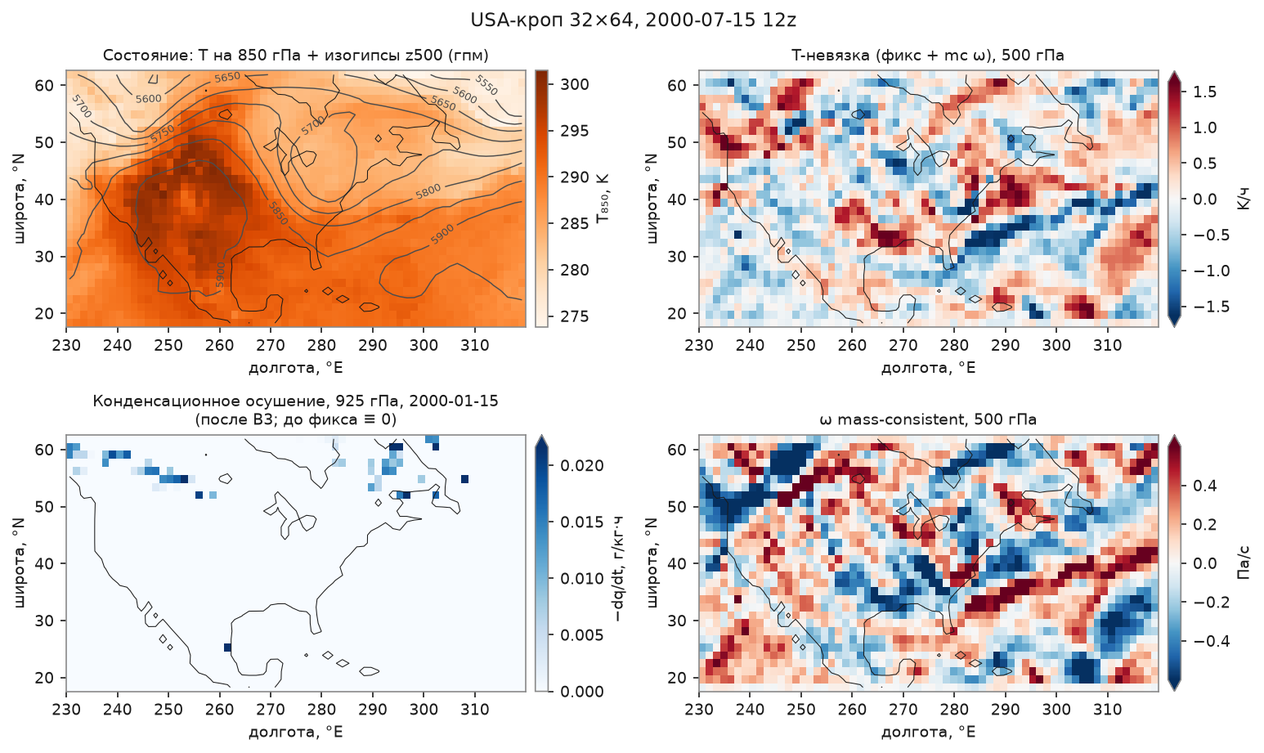
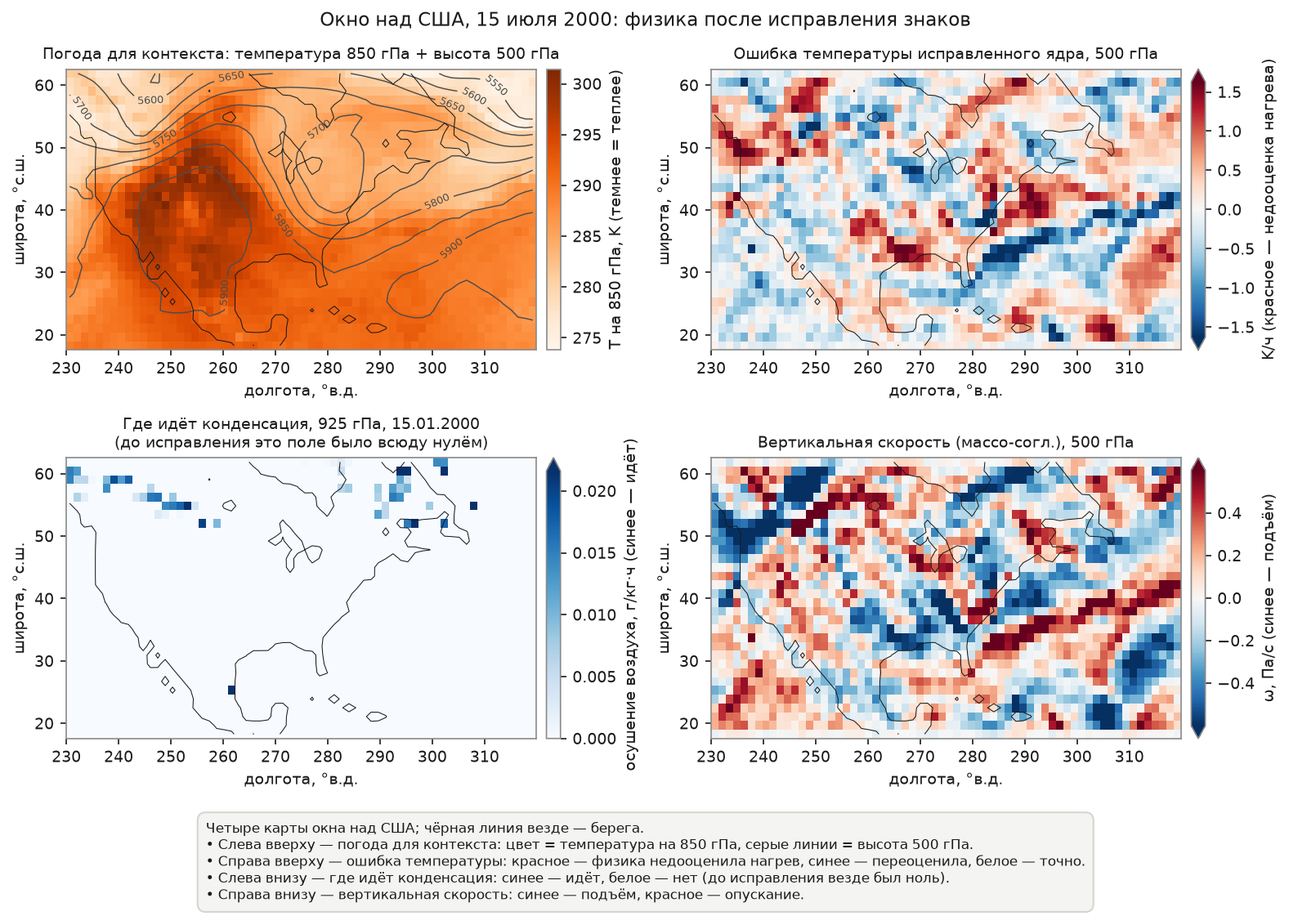
docs(experiments): self-explanatory figures — on-image caption, plain titles, color legends
Each of the five plots now carries a boxed caption (what it shows / how to read
/ what the colors mean) rendered onto the image, a plain-Russian title, and
color meaning spelled out in the colorbar labels, so a figure reads on its own
without the report text. add_caption() gains a y offset to clear the legend on
fig1.

diff --git a/docs/experiments/13_sign_convention_fix/make_figures.py b/docs/experiments/13_sign_convention_fix/make_figures.py
@@ -1,13 +1,16 @@
-"""Рендер фигур exp 13 из results-JSON и NPZ карт (см. PHYSICS_STATS_2000.md).
+"""Рендер фигур эксперимента 13 из results-JSON и NPZ карт.
 
-Вход: physics_stats_2000_results.json (рядом) и NPZ с картами (аргумент 1 или
-$MAPS_NPZ). Выход: fig1..fig5 PNG в каталоге эксперимента.
+Вход: physics_stats_2000_results.json (рядом) и NPZ с полями карт (аргумент 1
+или переменная окружения MAPS_NPZ). Выход: пять PNG в каталоге эксперимента.
+Каждая фигура самодостаточна: заголовок на простом русском плюс врезка-пояснение
+внизу («Что показано / Как читать / Цвета»), чтобы график читался без текста
+отчёта. Смысл величин и выводы разобраны в PHYSICS_STATS_2000.md.
 
-Правила оформления — skill dataviz: diverging (RdBu, нейтральный центр) только
-для знаковых полей (ω, невязка), sequential одно-хьюные для величин, стадии
-фикса — порядковая одно-хьюная шкала, идентичности линий — Okabe-Ito
-(валидировано: CVD ΔE 17.9, у розового contrast-WARN → прямые подписи),
-log-шкала — точками, а не барами; суша — контур lsm на каждой карте.
+Оформление следует навыку dataviz: расходящаяся палитра (RdBu, нейтральный
+центр) — только для знаковых полей (вертикальная скорость, невязка); одноцветные
+шкалы — для величин одного знака; стадии исправления — порядковая одноцветная
+шкала; цвета линий — Okabe-Ito (проверено валидатором); логарифмическая ось —
+точками, а не столбцами; на каждой карте — контур береговой линии.
 """
 
 import json
@@ -27,10 +30,16 @@ RESULTS = json.loads((HERE / "physics_stats_2000_results.json").read_text())
 NPZ_PATH = sys.argv[1] if len(sys.argv) > 1 else os.environ["MAPS_NPZ"]
 MAPS = np.load(NPZ_PATH)
 
-STAGE_COLORS = ["#c6dbef", "#6baed6", "#2171b5", "#08306b"]  # порядковая одно-хьюная
-STAGE_LABELS = ["до фикса", "фикс, plain ω", "только адвекция", "фикс + mc ω"]
+STAGE_COLORS = ["#c6dbef", "#6baed6", "#2171b5", "#08306b"]  # порядковая одноцветная
+STAGE_LABELS = [
+    "старое ядро (знаки перевёрнуты)",
+    "исправлены знаки",
+    "без адиабатического члена",
+    "исправлено + массо-согл. ω",
+]
 VAR_COLORS = {"u": "#0072B2", "v": "#D55E00", "t": "#009E73", "z": "#CC79A7"}
 INK, MUTED = "#1a1a1a", "#8a8a8a"
+CAPTION_BG = "#f4f4f2"
 
 plt.rcParams.update(
     {
@@ -49,13 +58,34 @@ plt.rcParams.update(
 
 
 def despine(ax) -> None:
-    """Убирает верхнюю/правую рамки (recessive axes)."""
+    """Убирает верхнюю и правую рамки — оси не должны спорить с данными."""
     ax.spines["top"].set_visible(False)
     ax.spines["right"].set_visible(False)
 
 
+def add_caption(fig, text: str, y: float = -0.02) -> None:
+    """Печатает врезку-пояснение под фигурой (что показано, как читать, цвета).
+
+    Текст кладётся ниже осей и попадает в сохранённый PNG за счёт
+    ``bbox_inches='tight'``. Выравнивание по левому краю для читаемости.
+    Параметр ``y`` (в координатах фигуры) опускает врезку ниже, когда под
+    осями уже есть легенда.
+    """
+    fig.text(
+        0.5,
+        y,
+        text,
+        ha="center",
+        va="top",
+        ma="left",
+        fontsize=8,
+        color=INK,
+        bbox={"boxstyle": "round,pad=0.6", "facecolor": CAPTION_BG, "edgecolor": "#d5d5d2"},
+    )
+
+
 def land_contour(ax, dom: str) -> None:
-    """Контур суши (lsm=0.5) — «изображение земли» на каждой карте."""
+    """Контур береговой линии (маска суша/море = 0.5) на карте."""
     ax.contour(
         MAPS[f"{dom}_lon"],
         MAPS[f"{dom}_lat"],
@@ -67,28 +97,28 @@ def land_contour(ax, dom: str) -> None:
 
 
 def map_panel(ax, dom: str, field: np.ndarray, cmap: str, norm, title: str):
-    """Одна карта: pcolormesh + суша + заголовок; возвращает mesh для colorbar."""
+    """Одна карта: заливка поля, береговая линия, заголовок. Возвращает mesh."""
     mesh = ax.pcolormesh(
         MAPS[f"{dom}_lon"], MAPS[f"{dom}_lat"], field, cmap=cmap, norm=norm, shading="auto"
     )
     land_contour(ax, dom)
     ax.set_title(title, fontsize=9)
-    ax.set_xlabel("долгота, °E")
+    ax.set_xlabel("долгота, °в.д.")
     ax.set_ylabel("широта, °")
     ax.grid(False)
     return mesh
 
 
 def fig1_residual_stages() -> None:
-    """Точечный график стадий фикса (log-x): T и z, оба домена."""
+    """Точечный график стадий исправления (лог-ось): T и z, обе области."""
     rows = [
-        ("T · USA", "usa", "t"),
-        ("T · глобус", "globe", "t"),
-        ("z · USA", "usa", "z"),
-        ("z · глобус", "globe", "z"),
+        ("T · США", "usa", "t"),
+        ("T · весь мир", "globe", "t"),
+        ("z · США", "usa", "z"),
+        ("z · весь мир", "globe", "z"),
     ]
-    fig, ax = plt.subplots(figsize=(7.2, 3.2))
-    for yi, (label, dom, var) in enumerate(rows):
+    fig, ax = plt.subplots(figsize=(7.6, 3.4))
+    for yi, (_label, dom, var) in enumerate(rows):
         d = RESULTS[dom]
         stages = [
             d["residual_rel"]["prefix_emulated"][var],
@@ -112,8 +142,10 @@ def fig1_residual_stages() -> None:
     ax.set_xscale("log")
     ax.set_yticks(range(len(rows)), [r[0] for r in rows])
     ax.invert_yaxis()
-    ax.set_xlabel("относительная невязка Σ|obs−model| / Σ|obs| (log)")
-    ax.set_title("PDE-невязка T и z по стадиям фикса (ERA5-2000, 96 пар)", fontsize=10)
+    ax.set_xlabel("во сколько раз ошибка физики больше реального изменения за час (лог-ось)")
+    ax.set_title(
+        "Ошибка температуры и геопотенциала падает после исправления знаков", fontsize=10
+    )
     handles = [
         plt.Line2D([], [], marker="o", ls="", color=c, label=s)
         for c, s in zip(STAGE_COLORS, STAGE_LABELS)
@@ -121,56 +153,70 @@ def fig1_residual_stages() -> None:
     ax.legend(
         handles=handles,
         frameon=False,
-        fontsize=8,
-        ncols=4,
+        fontsize=7.5,
+        ncols=2,
         loc="upper center",
-        bbox_to_anchor=(0.5, -0.22),
+        bbox_to_anchor=(0.5, -0.3),
     )
     despine(ax)
-    fig.tight_layout()
+    add_caption(
+        fig,
+        "Что показано: относительная ошибка физики для температуры (T) и геопотенциала (z) —\n"
+        "во сколько раз она больше реального часового изменения поля. Одно деление оси = ×10.\n"
+        "Как читать: чем левее точка, тем точнее. Цвета точек — стадии, от светлой к тёмной:\n"
+        "старое ядро → исправлены знаки → без адиабаты → исправлено с массо-согласованной ω.\n"
+        "Вывод: тёмные точки левее светлых в 10–30 раз.",
+        y=-0.52,
+    )
     fig.savefig(HERE / "fig1_residual_stages.png", bbox_inches="tight")
     plt.close(fig)
 
 
 def fig2_omega_maps() -> None:
-    """Глобус, 500 гПа, 2000-07-15: ω plain / mass-consistent / implied."""
+    """Весь мир, 500 гПа, 15.07.2000: три способа получить вертикальную скорость."""
     norm = TwoSlopeNorm(vcenter=0.0, vmin=-0.6, vmax=0.6)
-    fig, axes = plt.subplots(1, 3, figsize=(12.6, 3.4), sharey=True)
+    fig, axes = plt.subplots(1, 3, figsize=(12.6, 3.6), sharey=True)
     panels = [
-        ("omega_plain500", "кинематическая ω (plain)"),
-        ("omega_mc500", "кинематическая ω (mass-consistent)"),
-        ("omega_implied500", "implied ω из T-бюджета"),
+        ("omega_plain500", "обычная (из расхождения ветра)"),
+        ("omega_mc500", "массо-согласованная"),
+        ("omega_implied500", "требуемая (из баланса тепла)"),
     ]
     mesh = None
     for ax, (key, title) in zip(axes, panels):
         field = MAPS[f"globe_jul15_{key}"]
         mesh = map_panel(
-            ax, "globe", field, "RdBu_r", norm, f"{title}\n⟨|ω|⟩ = {np.abs(field).mean():.2f} Па/с"
+            ax, "globe", field, "RdBu_r", norm, f"{title}\nсредний модуль = {np.abs(field).mean():.2f} Па/с"
         )
         ax.label_outer()
     cbar = fig.colorbar(
-        mesh, ax=axes, orientation="horizontal", fraction=0.055, pad=0.16, extend="both"
+        mesh, ax=axes, orientation="horizontal", fraction=0.05, pad=0.18, extend="both"
     )
-    cbar.set_label("ω на 500 гПа, Па/с (красное — опускание); 2000-07-15 12z")
+    cbar.set_label("вертикальная скорость ω на 500 гПа, Па/с")
     fig.suptitle(
-        "Кинематическая ω шумит на порядок сильнее требуемой; mc давит амплитуду, "
-        "но поточечной корреляции нет (r ≈ 0.02)",
+        "Вертикальную скорость нельзя брать напрямую из ветра: она шумит в разы сильнее нужной",
         fontsize=10,
-        y=1.04,
+        y=1.02,
+    )
+    add_caption(
+        fig,
+        "Что показано: вертикальная скорость воздуха ω на высоте 500 гПа, весь мир, 15 июля 2000.\n"
+        "Три способа её получить: из расхождения ветра (обычная), с вычтенным средним по столбу\n"
+        "(массо-согласованная) и та, что нужна для точного объяснения нагрева (требуемая).\n"
+        "Цвета: синее — подъём воздуха, красное — опускание, белое — нет вертикального движения.\n"
+        "Чёрные линии — берега. Как читать: левая карта яркая и пёстрая — это шум; правая\n"
+        "(требуемая) выглядит совсем иначе, узоры не совпадают.",
     )
     fig.savefig(HERE / "fig2_omega_maps_globe.png", bbox_inches="tight")
     plt.close(fig)
 
 
 def fig3_usa_maps() -> None:
-    """USA-кроп, 2000-07-15: фон T850+z500, T-невязка, конденсация, ω."""
-    fig, axes = plt.subplots(2, 2, figsize=(10.4, 6.2))
+    """Окно над США: погода-фон, ошибка T, конденсация, вертикальная скорость."""
+    fig, axes = plt.subplots(2, 2, figsize=(10.6, 6.6))
     (ax_bg, ax_res), (ax_cond, ax_omega) = axes
 
     t850 = MAPS["usa_jul15_t850"]
-    mesh = ax_bg.pcolormesh(
-        MAPS["usa_lon"], MAPS["usa_lat"], t850, cmap="Oranges", shading="auto"
-    )
+    mesh = ax_bg.pcolormesh(MAPS["usa_lon"], MAPS["usa_lat"], t850, cmap="Oranges", shading="auto")
     cs = ax_bg.contour(
         MAPS["usa_lon"],
         MAPS["usa_lat"],
@@ -181,9 +227,9 @@ def fig3_usa_maps() -> None:
     )
     ax_bg.clabel(cs, fontsize=6, fmt="%.0f")
     land_contour(ax_bg, "usa")
-    ax_bg.set_title("Состояние: T на 850 гПа + изогипсы z500 (гпм)", fontsize=9)
+    ax_bg.set_title("Погода для контекста: температура 850 гПа + высота 500 гПа", fontsize=9)
     ax_bg.grid(False)
-    fig.colorbar(mesh, ax=ax_bg, fraction=0.04, pad=0.02).set_label("T₈₅₀, K")
+    fig.colorbar(mesh, ax=ax_bg, fraction=0.04, pad=0.02).set_label("T на 850 гПа, K (темнее = теплее)")
 
     res = MAPS["usa_jul15_t_res_mc500"] * 3600
     vmax = float(np.quantile(np.abs(res), 0.98))
@@ -193,27 +239,29 @@ def fig3_usa_maps() -> None:
         res,
         "RdBu_r",
         TwoSlopeNorm(0.0, -vmax, vmax),
-        "T-невязка (фикс + mc ω), 500 гПа",
+        "Ошибка температуры исправленного ядра, 500 гПа",
     )
-    fig.colorbar(mesh, ax=ax_res, fraction=0.04, pad=0.02, extend="both").set_label("K/ч")
+    fig.colorbar(mesh, ax=ax_res, fraction=0.04, pad=0.02, extend="both").set_label(
+        "K/ч (красное — недооценка нагрева)"
+    )
 
     # Январский снимок: конденсация активнее (55 точек против 16 в июле).
-    # vmax по 90-му перцентилю активных точек: один экстремум не съедает шкалу.
+    # Верхний предел шкалы по 90-му перцентилю активных точек: один экстремум
+    # не должен съедать шкалу.
     drying = np.clip(-MAPS["usa_jan15_cond_source925"] * 3.6e6, 0, None)  # г/кг/ч
     active = drying[drying > 1e-4]
     vmax = float(np.quantile(active, 0.90)) if active.size else 1.0
     mesh = ax_cond.pcolormesh(
-        MAPS["usa_lon"], MAPS["usa_lat"], drying, cmap="Blues", vmin=0.0, vmax=vmax,
-        shading="auto",
+        MAPS["usa_lon"], MAPS["usa_lat"], drying, cmap="Blues", vmin=0.0, vmax=vmax, shading="auto"
     )
     land_contour(ax_cond, "usa")
     ax_cond.set_title(
-        "Конденсационное осушение, 925 гПа, 2000-01-15\n(после B3; до фикса ≡ 0)",
+        "Где идёт конденсация, 925 гПа, 15.01.2000\n(до исправления это поле было всюду нулём)",
         fontsize=9,
     )
     ax_cond.grid(False)
     fig.colorbar(mesh, ax=ax_cond, fraction=0.04, pad=0.02, extend="max").set_label(
-        "−dq/dt, г/кг·ч"
+        "осушение воздуха, г/кг·ч (синее — идёт)"
     )
 
     mesh = map_panel(
@@ -222,23 +270,39 @@ def fig3_usa_maps() -> None:
         MAPS["usa_jul15_omega_mc500"],
         "RdBu_r",
         TwoSlopeNorm(0.0, -0.6, 0.6),
-        "ω mass-consistent, 500 гПа",
+        "Вертикальная скорость (массо-согл.), 500 гПа",
     )
-    fig.colorbar(mesh, ax=ax_omega, fraction=0.04, pad=0.02, extend="both").set_label("Па/с")
+    fig.colorbar(mesh, ax=ax_omega, fraction=0.04, pad=0.02, extend="both").set_label(
+        "ω, Па/с (синее — подъём)"
+    )
 
     for ax in axes.flat:
-        ax.set_xlabel("долгота, °E")
-        ax.set_ylabel("широта, °N")
-    fig.suptitle("USA-кроп 32×64, 2000-07-15 12z", fontsize=11)
+        ax.set_xlabel("долгота, °в.д.")
+        ax.set_ylabel("широта, °с.ш.")
+    fig.suptitle("Окно над США, 15 июля 2000: физика после исправления знаков", fontsize=11)
     fig.tight_layout()
+    add_caption(
+        fig,
+        "Четыре карты окна над США; чёрная линия везде — берега.\n"
+        "• Слева вверху — погода для контекста: цвет = температура на 850 гПа, серые линии = высота 500 гПа.\n"
+        "• Справа вверху — ошибка температуры: красное — физика недооценила нагрев, синее — переоценила, белое — точно.\n"
+        "• Слева внизу — где идёт конденсация: синее — идёт, белое — нет (до исправления везде был ноль).\n"
+        "• Справа внизу — вертикальная скорость: синее — подъём, красное — опускание.",
+    )
     fig.savefig(HERE / "fig3_usa_maps.png", bbox_inches="tight")
     plt.close(fig)
 
 
 def fig4_lat_profiles() -> None:
-    """Широтные профили невязки: v растёт к полюсам (u,v — plain; t,z — mc)."""
-    fig, axes = plt.subplots(1, 2, figsize=(9.6, 3.4), sharey=True)
-    for ax, dom, title in zip(axes, ("globe", "usa"), ("Глобус", "USA-кроп")):
+    """Невязка по широте: ветер v больше u и растёт к полюсам."""
+    labels = {
+        "u": "u — зональный ветер",
+        "v": "v — меридиональный ветер",
+        "t": "T — температура",
+        "z": "z — геопотенциал",
+    }
+    fig, axes = plt.subplots(1, 2, figsize=(9.8, 3.6), sharey=True)
+    for ax, dom, title in zip(axes, ("globe", "usa"), ("Весь мир", "Окно над США")):
         prof = RESULTS[dom]["residual_rel_by_lat"]
         lat = prof["lat_deg"]
         for var in ("u", "v", "t", "z"):
@@ -255,27 +319,31 @@ def fig4_lat_profiles() -> None:
             )
         ax.set_yscale("log")
         ax.set_title(title, fontsize=10)
-        ax.set_xlabel("широта, °")
+        ax.set_xlabel("широта, ° (0 — экватор, ±90 — полюса)")
         despine(ax)
-    axes[0].set_ylabel("относительная невязка (log)")
-    handles = [
-        plt.Line2D([], [], color=VAR_COLORS[v], lw=1.8, label={"u": "u (plain ω)", "v": "v (plain ω)", "t": "T (mc ω)", "z": "z (mc ω)"}[v])
-        for v in ("u", "v", "t", "z")
-    ]
+    axes[0].set_ylabel("ошибка / реальное изменение (лог-ось)")
+    handles = [plt.Line2D([], [], color=VAR_COLORS[v], lw=1.8, label=labels[v]) for v in labels]
     axes[0].legend(handles=handles, frameon=False, fontsize=8, loc="upper center", ncols=2)
-    fig.suptitle("Невязка по широте: v ≫ u растёт к полюсам (баланс f·u ↔ z_y)", fontsize=10)
+    fig.suptitle("Ошибка ветра максимальна у полюсов, и v всюду хуже u", fontsize=10)
     fig.tight_layout()
+    add_caption(
+        fig,
+        "Что показано: относительная ошибка физики в зависимости от широты. Слева весь мир,\n"
+        "справа окно над США. Ось высоты логарифмическая. Цвет линии — переменная (подписана справа):\n"
+        "синяя u — зональный ветер, оранжевая v — меридиональный, зелёная T — температура, розовая z — геопотенциал.\n"
+        "Как читать: оранжевая линия v выше синей u, и обе растут к краям (полюсам) — ошибка ветра там максимальна.",
+    )
     fig.savefig(HERE / "fig4_lat_profiles.png", bbox_inches="tight")
     plt.close(fig)
 
 
 def fig5_cfl_map() -> None:
-    """CFL на 250 гПа при dt=300 c: полярные ряды глобуса против USA-кропа."""
+    """Число Куранта на 250 гПа: предел устойчивости достигается лишь у полюсов."""
     jan = MAPS["globe_jan15_cfl250"]
     jul = MAPS["globe_jul15_cfl250"]
     field = jan if jan.max() >= jul.max() else jul
-    label = "2000-01-15" if jan.max() >= jul.max() else "2000-07-15"
-    fig, ax = plt.subplots(figsize=(7.6, 3.6))
+    label = "15.01.2000" if jan.max() >= jul.max() else "15.07.2000"
+    fig, ax = plt.subplots(figsize=(7.8, 3.8))
     mesh = ax.pcolormesh(
         MAPS["globe_lon"],
         MAPS["globe_lat"],
@@ -287,21 +355,26 @@ def fig5_cfl_map() -> None:
     land_contour(ax, "globe")
     if field.max() >= 1.0:
         ax.contour(
-            MAPS["globe_lon"], MAPS["globe_lat"], field, levels=[1.0],
-            colors="#C4260E", linewidths=1.4,
+            MAPS["globe_lon"], MAPS["globe_lat"], field, levels=[1.0], colors="#C4260E", linewidths=1.4
         )
     band_max = RESULTS["globe"]["cfl_dt300"]["band_max"]
     ax.set_title(
-        f"CFL = |u|·Δt/Δx на 250 гПа, dt=300 c ({label}; snapshot max = {field.max():.2f}).\n"
-        f"Max по 96 парам: полюса {band_max['polar']:.2f}, средние {band_max['midlat']:.2f}, "
-        f"тропики {band_max['tropics']:.2f}; USA-кроп {RESULTS['usa']['cfl_dt300']['adv_max']:.3f}",
-        fontsize=9,
+        "Предел устойчивости счёта достигается только у полюсов", fontsize=10
     )
-    ax.set_xlabel("долгота, °E")
+    ax.set_xlabel("долгота, °в.д.")
     ax.set_ylabel("широта, °")
     ax.grid(False)
-    fig.colorbar(mesh, ax=ax, fraction=0.03, pad=0.02).set_label("CFL (log)")
-    fig.tight_layout()
+    fig.colorbar(mesh, ax=ax, fraction=0.03, pad=0.02).set_label("число Куранта (лог-шкала)")
+    add_caption(
+        fig,
+        "Что показано: число Куранта на 250 гПа — путь ветра за шаг счёта (300 с), делённый на размер\n"
+        "ячейки сетки; при значении больше 1 явная схема разваливается. Снимок за " + label + ".\n"
+        "Цвета: светлое — малые значения (запас большой), тёмно-синее — близко к пределу; шкала логарифмическая.\n"
+        "Красная линия — уровень 1, чёрные линии — берега.\n"
+        "Как читать: красная зона есть только у самой кромки (полюса). Максимум по 96 снимкам: "
+        f"полюса {band_max['polar']:.1f}, средние широты {band_max['midlat']:.2f},\n"
+        f"тропики {band_max['tropics']:.2f}; над США — {RESULTS['usa']['cfl_dt300']['adv_max']:.3f}. В остальном мире и над США счёт устойчив.",
+    )
     fig.savefig(HERE / "fig5_cfl_globe.png", bbox_inches="tight")
     plt.close(fig)
 
